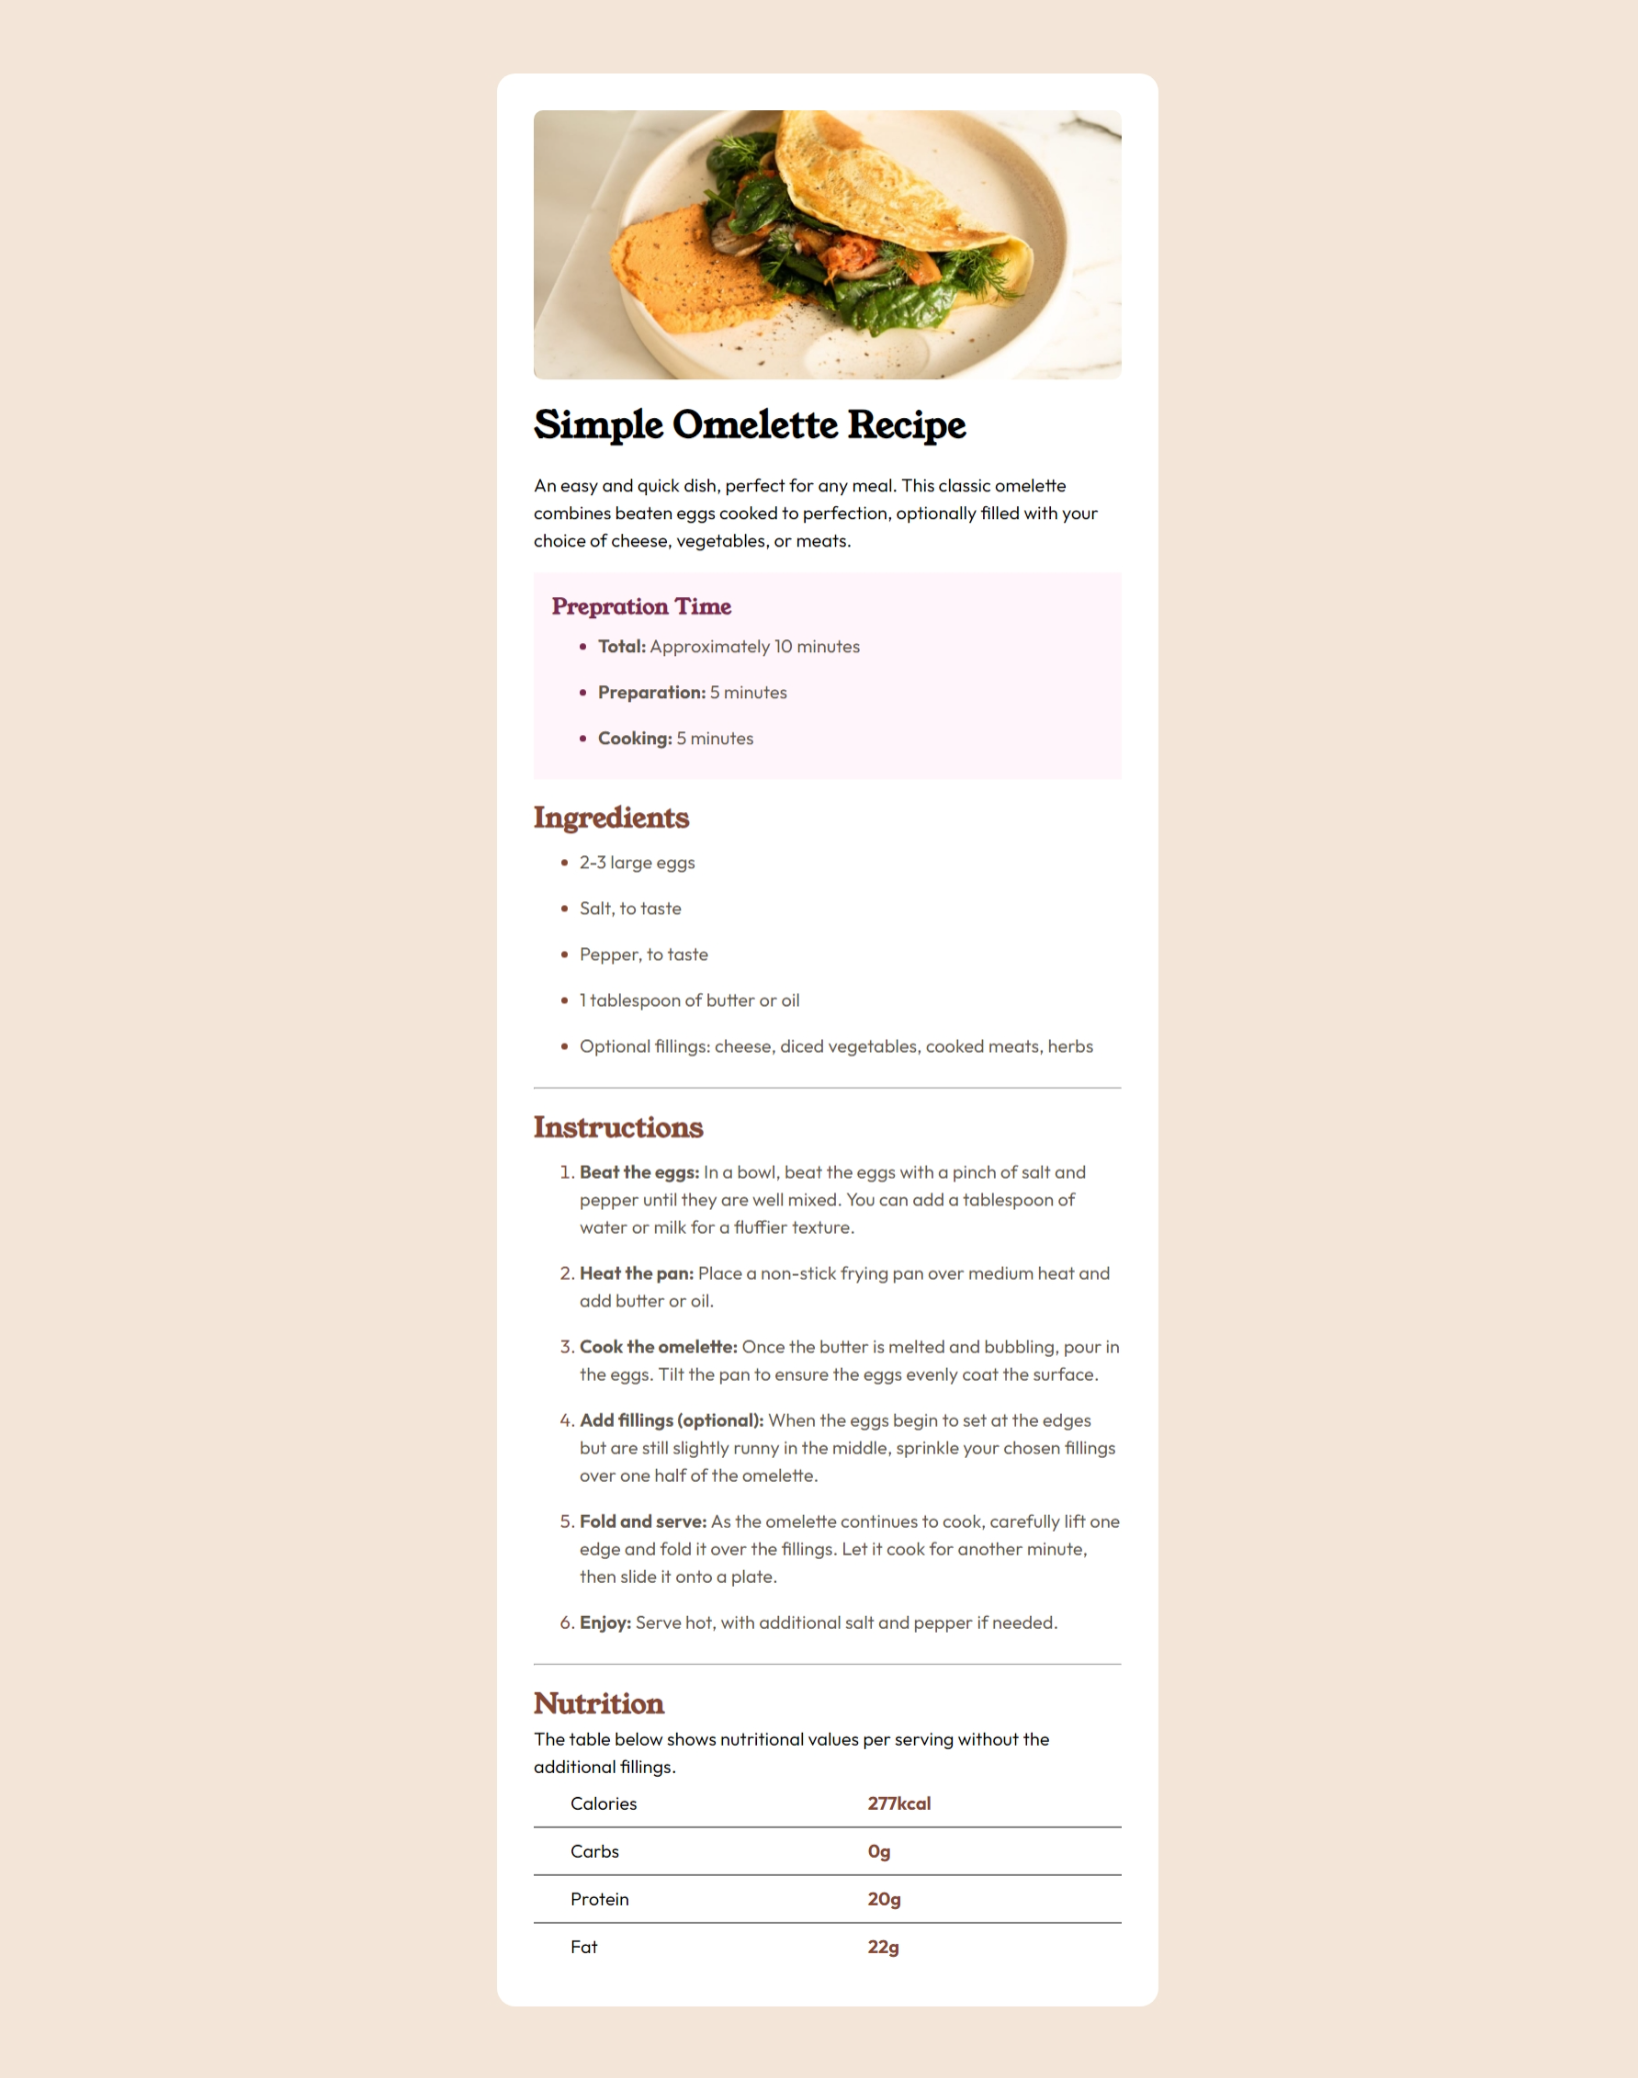
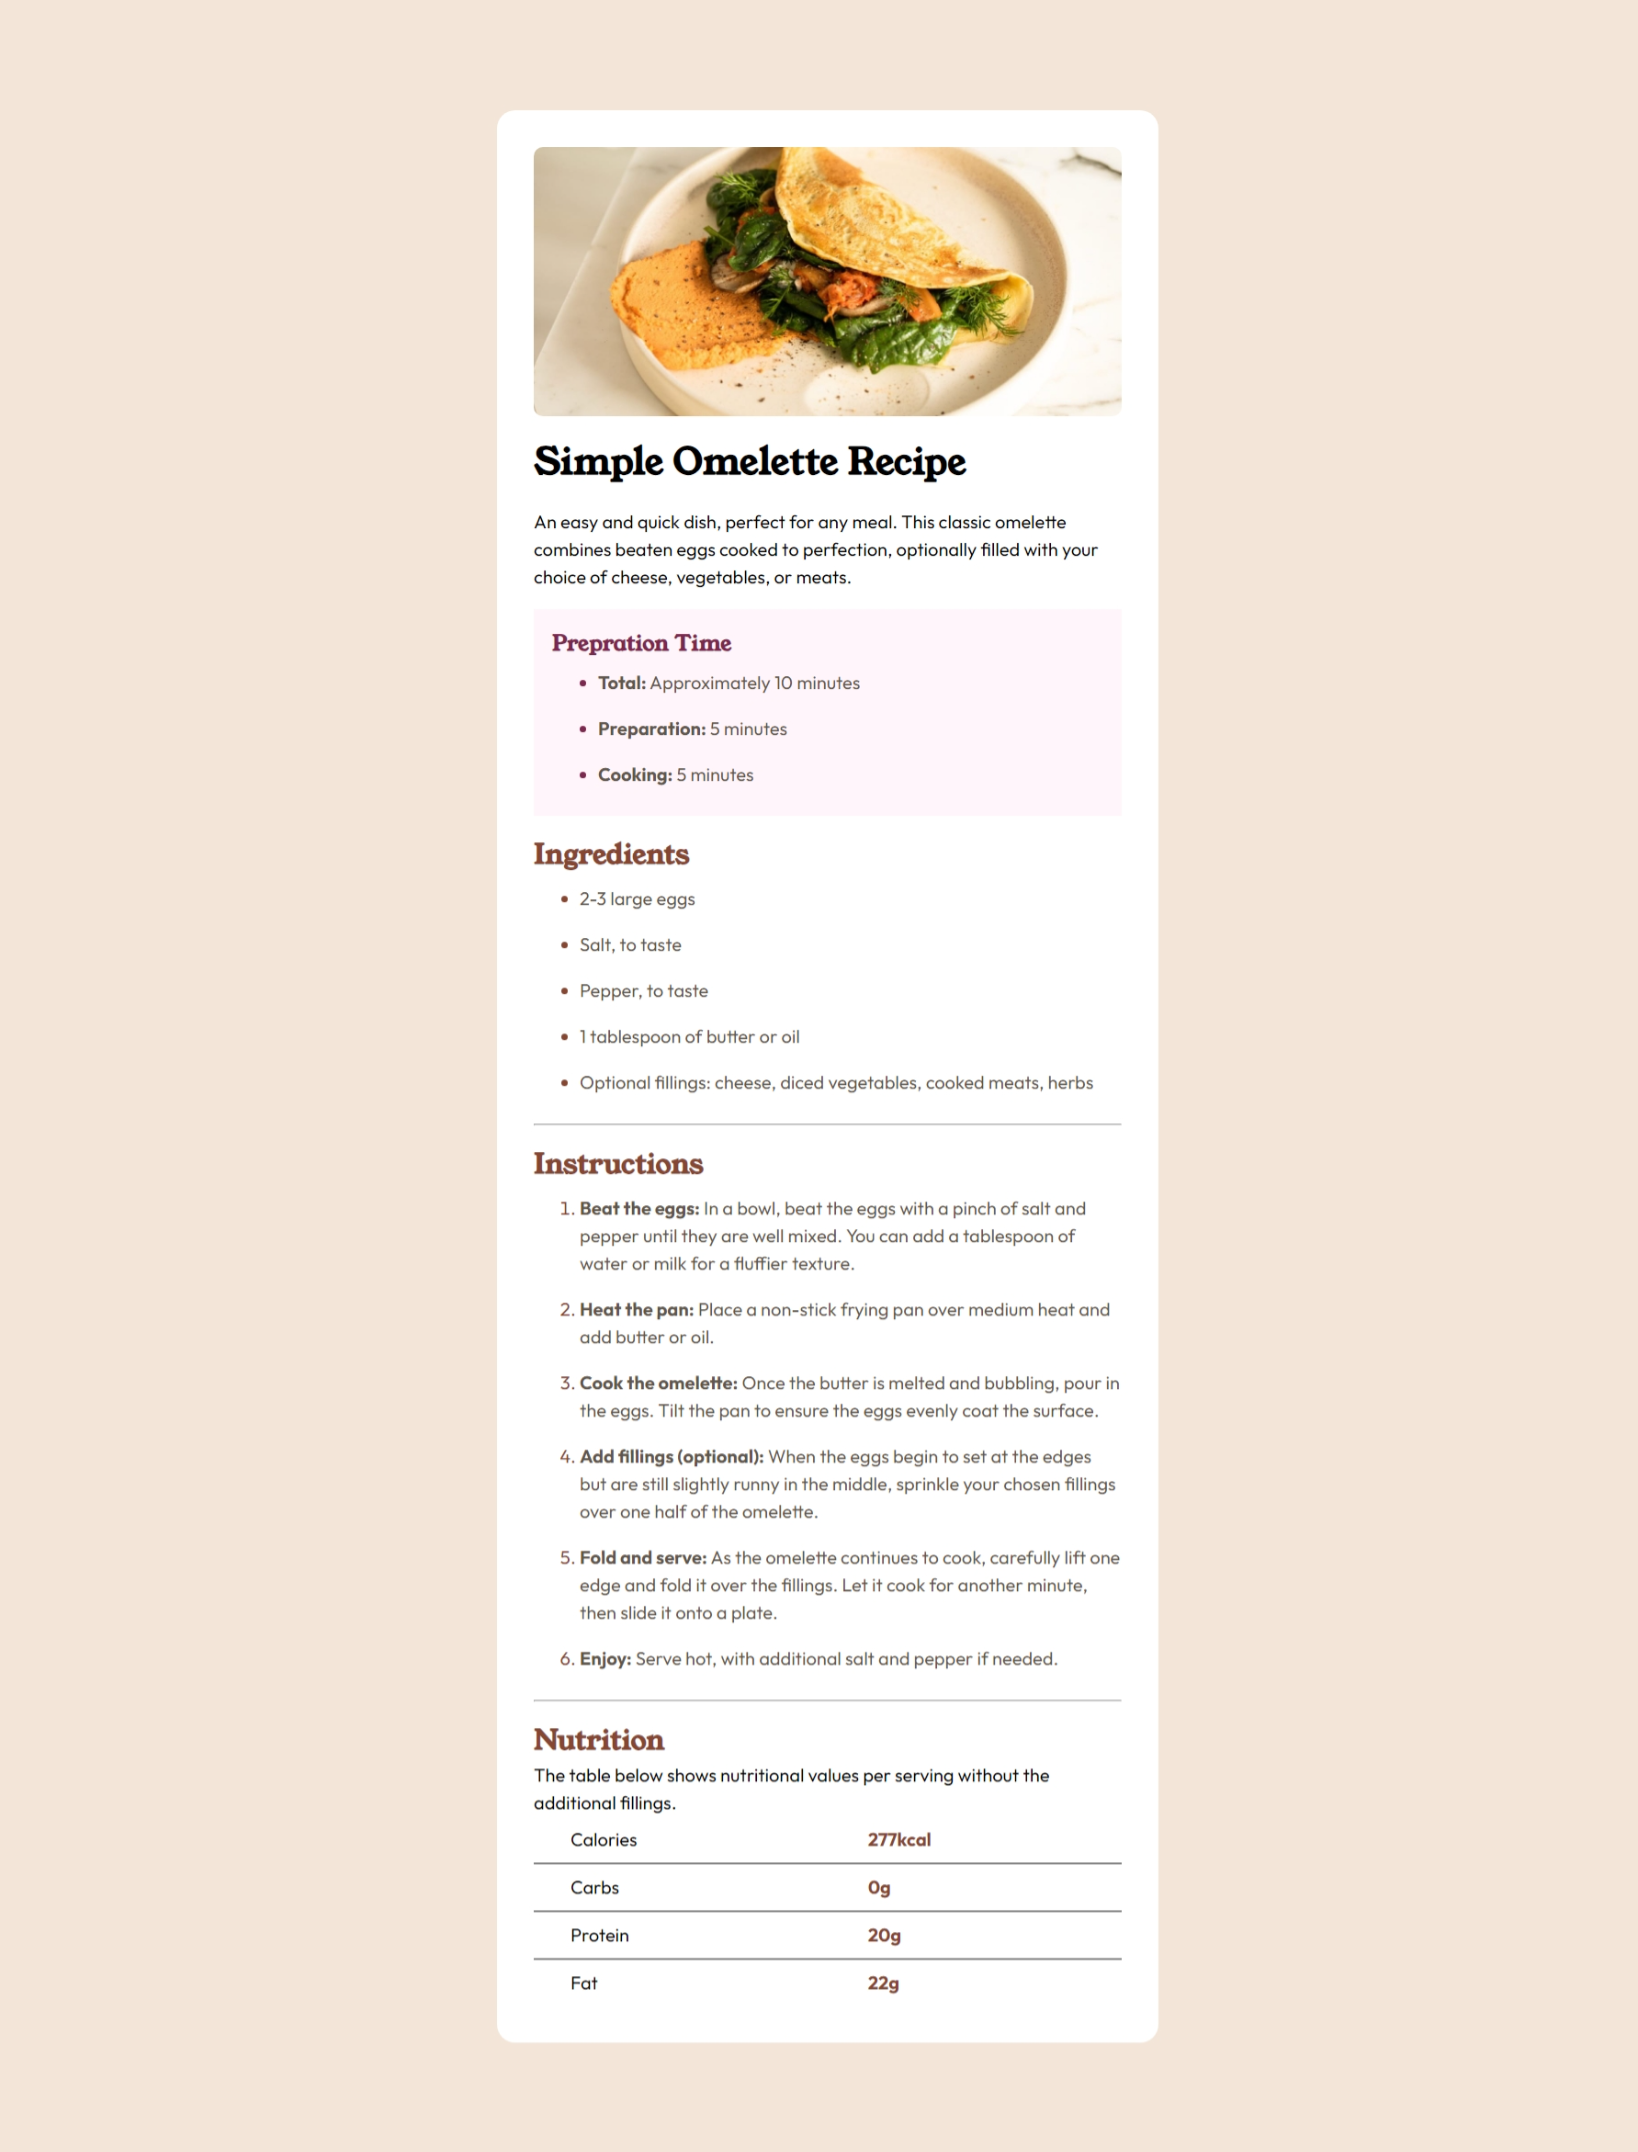
screenshot and font-paths updated

Changed region(s): [[0.3114, 0.5236, 0.7161, 0.9856], [0.2802, 0.0308, 0.7161, 0.4928], [0.4359, 0.4928, 0.6227, 0.5236]]

diff --git a/recipe-page/style.css b/recipe-page/style.css
@@ -1,11 +1,11 @@
 @font-face {
-    font-family: "Young Serif", Outfit;
-    src: url(./assets/young-serif/YoungSerif-Regular.ttf);
+    font-family: "Young Serif";
+    src: url(./assets/YoungSerif-Regular.ttf);
 }
 
 @font-face {
     font-family: Outfit;
-    src: url(./assets/outfit/Outfit-VariableFont_wght.ttf);
+    src: url(./assets/Outfit-VariableFont_wght.ttf);
 }
 
 :root {
@@ -125,7 +125,7 @@ tbody>*+* {
 
 @media (min-width: 576px) {
     .container {
-        margin: 4rem auto;
+        margin: 6rem auto;
         border-radius: 1rem;
     }
 }
